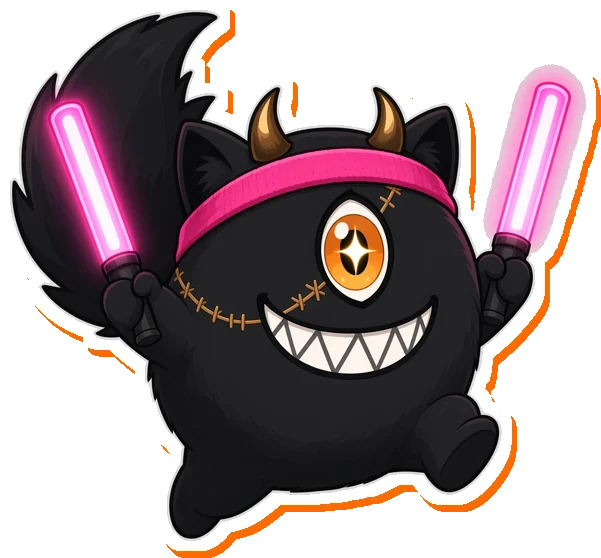
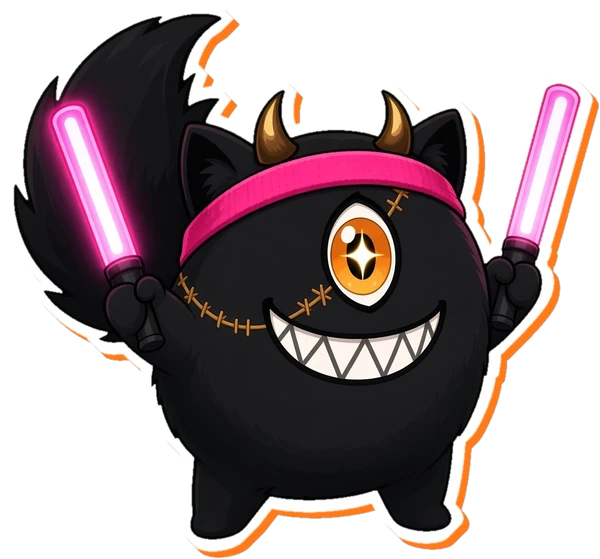
Quiz creatures: redraw with exactly two legs

Changed region(s): [[0.0, 0.0, 1.0, 1.0]]

diff --git a/creature/index.html b/creature/index.html
@@ -81,7 +81,7 @@ details.note summary{cursor:pointer;font-weight:700;color:var(--o)}details.note 
 .res .btns{justify-content:center}
 [hidden]{display:none!important}
 </style></head><body><nav class="nav"><a href="static-hollow/">Ref Sheets / Lore</a><a href="apps.html">Apps</a><a href="cameos.html">Cameos</a><a href="index.html#discord">Socials</a><a href="https://uwumarket.us/collections/kitsura-nines" target="_blank" rel="noopener">Merch</a></nav><main class="over" style="min-height:100vh"><section><h1 class="sr-only">Which Dubious Creature Are You?</h1><div class="qz">
-<div id="intro"><h2 style="justify-content:center">Which Dubious Creature Are You?</h2><img class="hero-img" src="creature/img/chaos.webp?v=1" alt="A dubious creature holding a lit bomb" width="300" height="300"><p class="lead">The dubious creatures gather wherever Nines is being watched. Individually, they are ridiculous. In groups, they become concerning. Answer 10 questions to find out which one <b>you</b> are.</p><div class="btns" style="justify-content:center"><button class="btn o" id="go">&#9654; Start the quiz</button></div></div>
+<div id="intro"><h2 style="justify-content:center">Which Dubious Creature Are You?</h2><img class="hero-img" src="creature/img/chaos.webp?v=2" alt="A dubious creature holding a lit bomb" width="300" height="300"><p class="lead">The dubious creatures gather wherever Nines is being watched. Individually, they are ridiculous. In groups, they become concerning. Answer 10 questions to find out which one <b>you</b> are.</p><div class="btns" style="justify-content:center"><button class="btn o" id="go">&#9654; Start the quiz</button></div></div>
 <div id="quiz" hidden><div class="prog"><i id="bar" style="width:0"></i></div><div class="qn" id="qn"></div><div class="qt" id="qt"></div><div class="ans" id="ans"></div></div>
 <div id="result" hidden><div class="res"><div class="you" id="you">You are the</div><img id="ri" src="" alt="" width="300" height="300"><h3 id="rn"></h3><div class="tl" id="rt"></div><p class="ds" id="rd"></p><div class="btns"><a class="btn o" id="share" href="#" target="_blank" rel="noopener">Share on X</a><button class="btn" id="again">Retake</button></div></div><p class="note" style="margin-top:1.4rem;border:0">Chaos reigns. Results may vary.</p></div>
 </div></section>
@@ -93,7 +93,7 @@ function ask(){const q=QS[qi];$('bar').style.width=(qi/QS.length*100)+'%';$('qn'
  const a=$('ans');a.innerHTML='';[...q[1]].sort(()=>Math.random()-.5).forEach(x=>{const b=document.createElement('button');b.textContent=x[0];b.onclick=()=>{sc[x[1]]+=2;sc[x[2]]+=1;qi++;qi<QS.length?ask():finish()};a.appendChild(b)});a.querySelector('button').focus({preventScroll:true})}
 function start(){qi=0;sc={};K.forEach(k=>sc[k]=0);history.replaceState(null,'','creature/');show('quiz');ask();scrollTo(0,0)}
 function finish(){const m=Math.max(...K.map(k=>sc[k])),t=K.filter(k=>sc[k]==m),r=t[Math.random()*t.length|0];history.replaceState(null,'','creature/?r='+r);result(r,true);if(window.goatcounter&&goatcounter.count)goatcounter.count({path:'creature/result/'+r,title:TYPES[r].n,event:true})}
-function result(r,mine){const T=TYPES[r];$('you').textContent=mine?'You are the':'Someone got the';$('ri').src='creature/img/'+r+'.webp?v=1';$('ri').alt=T.n;$('rn').textContent=T.n;$('rt').textContent=T.t;$('rd').textContent=T.d;
+function result(r,mine){const T=TYPES[r];$('you').textContent=mine?'You are the':'Someone got the';$('ri').src='creature/img/'+r+'.webp?v=2';$('ri').alt=T.n;$('rn').textContent=T.n;$('rt').textContent=T.t;$('rd').textContent=T.d;
  const txt=`I'm a ${T.n}! "${T.t}" Which dubious creature are you? 🦊 Chaos reigns!`;
  $('share').href='https://x.com/intent/post?text='+encodeURIComponent(txt)+'&url='+encodeURIComponent('https://kitsuranines.com/creature/?r='+r);
  $('again').textContent=mine?'Retake':'Take the quiz';show('result');scrollTo(0,0)}
